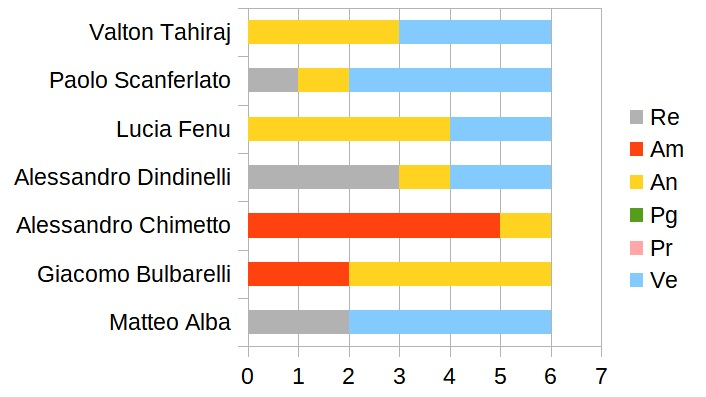
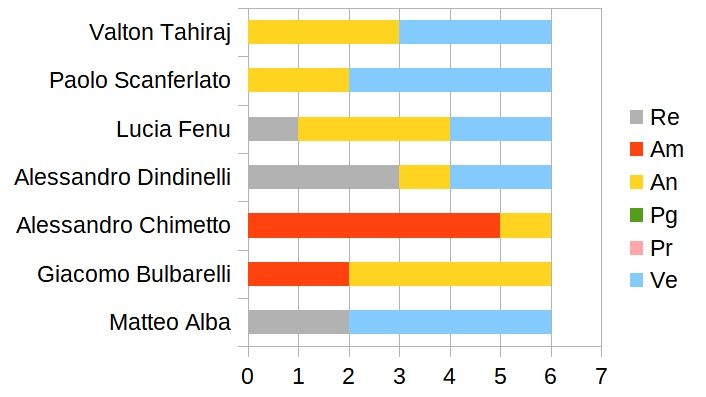
Correzione grafici e tabelle del Preventivo
Portato alla versione 0.6.1 (occhio che redattori e verificatori vanno in ordine alfabetico in tutti i documenti)

Changed region(s): [[0.3428, 0.272, 0.4363, 0.3627], [0.3428, 0.1511, 0.4363, 0.2418]]

diff --git a/esterni/piano_progetto/res/sez5_preventivo.tex b/esterni/piano_progetto/res/sez5_preventivo.tex
@@ -41,8 +41,8 @@ In molte delle tabelle e figure proposte, i ruoli sono stati abbreviati in quest
 					Giacomo Bulbarelli & 7 & 6 & 8 & & & 5 & \textbf{26} \\
 					Alessandro Chimetto & 7 & & 11 & & & 8 & \textbf{26} \\
 					Alessandro Dindinelli & & 4 & 12 & & & 10 & \textbf{26} \\
-					Lucia Fenu & 5 & 6 & 5 & & & 10 & \textbf{26} \\
-					Paolo Scanferlato & & 7 & 11 & & & 8 & \textbf{26} \\
+					Lucia Fenu & & 6 & 10 & & & 10 & \textbf{26} \\
+					Paolo Scanferlato & 5 & 7 & 6 & & & 8 & \textbf{26} \\
 					Valton Tahiraj & 6 & 5 & 7 & & & 8 & \textbf{26} \\
 					\textbf{Ore totali Ruolo} & \textbf{25} & \textbf{36} & \textbf{62} & \textbf{} & \textbf{}& \textbf{59} & \textbf{182}
 				\end{tabular}
@@ -100,8 +100,8 @@ In molte delle tabelle e figure proposte, i ruoli sono stati abbreviati in quest
 					Giacomo Bulbarelli & & 2 & 4 & & & & \textbf{6} \\
 					Alessandro Chimetto & & 5 & 1 & & & & \textbf{6} \\
 					Alessandro Dindinelli & 3 & & 1 & & & 2 & \textbf{6} \\
-					Lucia Fenu & & & 4 & & & 2 & \textbf{6} \\
-					Paolo Scanferlato & 1 & & 1 & & & 4 & \textbf{6} \\
+					Lucia Fenu & 1 & & 3 & & & 2 & \textbf{6} \\
+					Paolo Scanferlato & & & 2 & & & 4 & \textbf{6} \\
 					Valton Tahiraj & & & 3 & & & 3 & \textbf{6} \\
 					\textbf{Ore totali Ruolo} & \textbf{6} & \textbf{7} & \textbf{14} & \textbf{} & \textbf{}& \textbf{15} & \textbf{42}
 				\end{tabular}
@@ -277,8 +277,8 @@ In molte delle tabelle e figure proposte, i ruoli sono stati abbreviati in quest
 					Giacomo Bulbarelli & 4 & & & 3 & 8 & 8 & \textbf{23} \\
 					Alessandro Chimetto & 7 & & & 5 & 5 & 6 & \textbf{23} \\
 					Alessandro Dindinelli & & 4 & & 5 & 5 & 9 & \textbf{23} \\
-					Lucia Fenu & 2 & 6 & & 3 & 2 & 10 & \textbf{23} \\
-					Paolo Scanferlato & 2 & 4 & & 5 & 6 & 6 & \textbf{23} \\
+					Lucia Fenu & 4 & 6 & & 3 & 2 & 8 & \textbf{23} \\
+					Paolo Scanferlato & & 4 & & 5 & 6 & 8 & \textbf{23} \\
 					Valton Tahiraj & & 8 & & 5 & 6 & 4 & \textbf{23} \\
 					\textbf{Ore totali Ruolo} & \textbf{15} & \textbf{22} & \textbf{} & \textbf{31} & \textbf{37}& \textbf{56} & \textbf{161}
 				\end{tabular}
@@ -336,8 +336,8 @@ In molte delle tabelle e figure proposte, i ruoli sono stati abbreviati in quest
 					Giacomo Bulbarelli & 14 & 14 & 17 & 24 & 30 & 34 & \textbf{133} \\
 					Alessandro Chimetto & 14 & 14 & 16 & 25 & 28 & 36 & \textbf{133} \\
 					Alessandro Dindinelli & 10 & 12 & 17 & 25 & 27 & 42 & \textbf{133} \\
-					Lucia Fenu & 12 & 14 & 14 & 23 & 26 & 44 & \textbf{133} \\
-					Paolo Scanferlato & 9 & 14 & 17 & 25 & 27 & 41 & \textbf{133} \\
+					Lucia Fenu & 10 & 14 & 18 & 23 & 26 & 42 & \textbf{133} \\
+					Paolo Scanferlato & 11 & 14 & 13 & 25 & 27 & 43 & \textbf{133} \\
 					Valton Tahiraj & 10 & 16 & 14 & 25 & 29 & 39 & \textbf{133} \\
 					\textbf{Ore totali Ruolo} & \textbf{79} & \textbf{98} & \textbf{108} & \textbf{172} & \textbf{194}& \textbf{280} & \textbf{931}
 				\end{tabular}
@@ -393,8 +393,8 @@ In molte delle tabelle e figure proposte, i ruoli sono stati abbreviati in quest
 					Giacomo Bulbarelli & 7 & 6 & 5 & 24 & 30 & 29 & \textbf{101} \\
 					Alessandro Chimetto & 7 & 9 & 4 & 25 & 28 & 28 & \textbf{101} \\
 					Alessandro Dindinelli & 7 & 8 & 4 & 25 & 27 & 30 & \textbf{101} \\
-					Lucia Fenu & 7 & 8 & 5 & 23 & 26 & 32 & \textbf{101} \\
-					Paolo Scanferlato & 8 & 7 & 5 & 25 & 27 & 29 & \textbf{101} \\
+					Lucia Fenu & 9 & 8 & 5 & 23 & 26 & 30 & \textbf{101} \\
+					Paolo Scanferlato & 6 & 7 & 5 & 25 & 27 & 31 & \textbf{101} \\
 					Valton Tahiraj & 4 & 11 & 4 & 25 & 29 & 28 & \textbf{101} \\
 					\textbf{Ore totali Ruolo} & \textbf{48} & \textbf{55} & \textbf{32} & \textbf{172} & \textbf{194}& \textbf{206} & \textbf{707}
 				\end{tabular}

diff --git a/esterni/piano_progetto/main.tex b/esterni/piano_progetto/main.tex
@@ -16,27 +16,29 @@
 
 \setTitle{Piano di Progetto}
 
-\setVersione{0.6.0}
+\setVersione{0.6.1}
 
 \setDate{06-01-2021}
 
 \setResponsabile{Paolo Scanferlato}
 
-\setRedattori{Lucia Fenu \\&
+\setRedattori{Matteo Alba \\&
+	Giacomo Bulbarelli\\&
 	Alessandro Chimetto \\&
-  Giacomo Bulbarelli\\&
 	Alessandro Dindinelli\\&
-	Valton Tahiraj\\&
-	Matteo Alba}
+	Lucia Fenu \\&
+	Paolo Scanferlato \\&
+  	Valton Tahiraj}
 
-\setVerificatori{Paolo Scanferlato\\&
-  Alessandro Chimetto \\&
+\setVerificatori{Alessandro Chimetto \\&
 	Alessandro Dindinelli\\&
+	Paolo Scanferlato\\&
 	Valton Tahiraj}
 
 \setUso{Esterno}
 
 \setModifiche{
+	0.6.1 & Paolo Scanferato	  & Amministratore & 06-01-2021 & Correzione Preventivo tabelle e grafici \\
 	0.6.0 & Valton Tahiraj        & Verificatore   & 06-01-2021 & Verificata sezione consuntivo \\
 	0.6.0 & Lucia Fenu            & Amministratore & 06-01-2021 & Aggiunto  sezione consuntivo \\
 	0.5.0 & Valton Tahiraj        & Verificatore   & 05-01-2021 & Verificata sezione pianificazione \\
